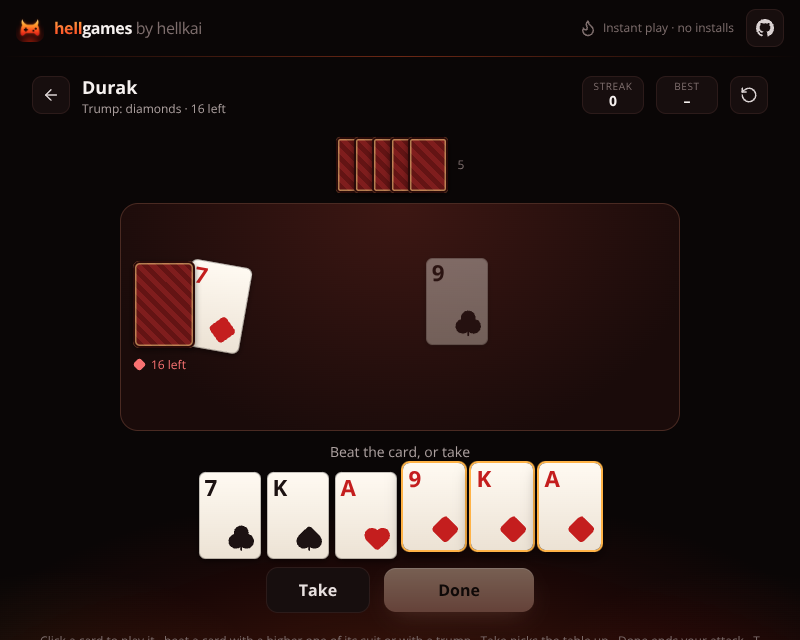
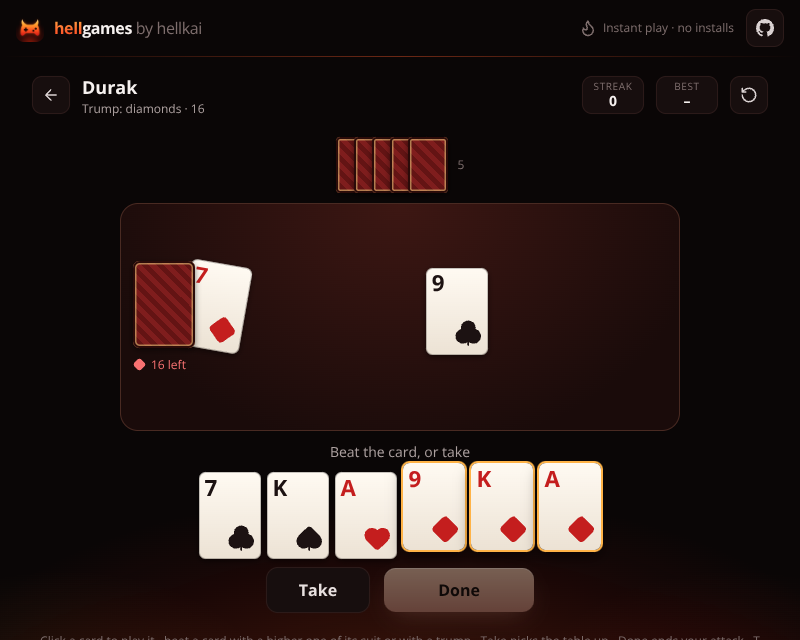
Short status lines, bigger targets under a finger, steadier tests
- The line under a game's name fits a narrow phone in every new game.
- Hold the Angle: enemies are a third bigger on touch screens.
- Durak: only a card that was just played slides in; the others stay still.
- Stroop Test and Odd One Out show the time left from the first answer on.
- Browser tests wait for what they need instead of for a fixed time.

Changed region(s): [[0.5312, 0.4062, 0.625, 0.5625], [0.25, 0.1562, 0.2812, 0.1875]]

diff --git a/js/games/durak.js b/js/games/durak.js
@@ -118,6 +118,7 @@ export default {
     const $ = (id) => stage.querySelector('#' + id);
     const handEl = $('dk-hand'), msg = $('dk-msg'), takeBtn = $('dk-take'), doneBtn = $('dk-done');
     let g = createGame(), timer = null, alive = true, flash = ''; // flash: a word about what has just happened, shown for a moment
+    let laid = new Set(); // the cards that are on the table already
     const streak = () => Number(saved.get('streak')) || 0;
     const sorted = (hand) => hand.slice().sort((a, b) => worth(a, g.trump) - worth(b, g.trump) || a.suit.localeCompare(b.suit));
     const later = (fn, ms) => { timer = setTimeout(() => { if (alive) fn(); }, ms); };
@@ -136,14 +137,17 @@ export default {
       const red = g.trump === 'hearts' || g.trump === 'diamonds' ? ' red' : '';
       $('dk-deck').innerHTML = (g.deck.length ? cardHTML(g.deck[0], 'dk-trump') + (g.deck.length > 1 ? cardHTML(null, 'dk-stock') : '') : `<div class="dk-suit${red}"><i data-lucide="${SUIT_ICON[g.trump]}"></i></div>`)
         + `<span class="dk-count${red}"><i data-lucide="${SUIT_ICON[g.trump]}"></i>${g.deck.length ? `${g.deck.length} left` : 'trump'}</span>`;
-      $('dk-table').innerHTML = g.table.map((pair) => `<div class="dk-pair">${cardHTML(pair.attack)}${pair.defence ? cardHTML(pair.defence, 'dk-over') : ''}</div>`).join('');
+      // only a card that has just been played slides in; the ones that lay there already stay still
+      const fresh = (c) => (laid.has(cardName(c)) ? '' : ' new');
+      $('dk-table').innerHTML = g.table.map((pair) => `<div class="dk-pair">${cardHTML(pair.attack, fresh(pair.attack))}${pair.defence ? cardHTML(pair.defence, 'dk-over' + fresh(pair.defence)) : ''}</div>`).join('');
+      laid = new Set(g.table.flatMap((pair) => [pair.attack, pair.defence]).filter(Boolean).map(cardName));
       // the hand: so many cards to a row that each one can still be told and touched
       const cards = sorted(g.hands[0]), perRow = Math.ceil(cards.length / Math.ceil(cards.length / 12)) || 1, rows = [];
       for (let i = 0; i < cards.length; i += perRow) rows.push(cards.slice(i, i + perRow));
       handEl.innerHTML = rows.map((row) => `<div class="dk-row" style="--n:${row.length}">${row.map((c) => cardHTML(c, playable.has(cardName(c)) ? 'can' : '', 'button')).join('')}</div>`).join('');
       takeBtn.disabled = !mine.some((o) => o.type === 'take'); doneBtn.disabled = !mine.some((o) => o.type === 'done');
       msg.textContent = flash || telling();
-      api.status(`Trump: ${g.trump} · ${g.deck.length} left`);
+      api.status(`Trump: ${g.trump} · ${g.deck.length}`);
       drawIcons();
     }
     function finish() {

diff --git a/js/games/peek.js b/js/games/peek.js
@@ -25,8 +25,9 @@ const BEHIND_WALL = 3; // the first so many spots are in the room behind the doo
 // The body under a head: a box, in the same measure.
 export const bodyOf = (enemy) => ({ x: enemy.x - enemy.r * 1.5, y: enemy.y + enemy.r * 0.9, w: enemy.r * 3, h: enemy.r * 3.4 });
 
-export function createDuels(level = 'normal', rnd = Math.random) {
-  const { show, head } = LEVELS[level];
+// `grow` makes the enemies bigger: a finger on a phone is blunter than a mouse.
+export function createDuels(level = 'normal', rnd = Math.random, grow = 1) {
+  const { show } = LEVELS[level], head = LEVELS[level].head * grow;
   const d = { duel: 0, phase: 'wait', wait: 0.8 + rnd() * 1.2, enemy: null, times: [], heads: 0, lost: 0, shots: 0, hits: 0, over: false, events: [] };
   let last = -1;
   function next(ms, how) {
@@ -89,12 +90,13 @@ export default {
     const levelBtns = [...stage.querySelectorAll('#pk-level button')];
     const font = getComputedStyle(document.body).fontFamily;
     let W = 1, H = 1, level, duels, state = 'ready', aim = [0.5, 0.3], pops = [], flashAt = -9, hurtAt = -9, endTimer = null;
+    const grow = window.matchMedia && window.matchMedia('(pointer: coarse)').matches ? 1.3 : 1;
 
     function reset() {
       clearTimeout(endTimer); api.hideOverlay();
       level = LEVELS[api.variant()] ? api.variant() : 'normal';
       levelBtns.forEach((b) => b.classList.toggle('on', b.dataset.l === level));
-      duels = createDuels(level); state = 'ready'; pops = [];
+      duels = createDuels(level, Math.random, grow); state = 'ready'; pops = [];
       api.score('–'); api.status(`${DUELS} duels`);
     }
     function enemy(e) {

diff --git a/js/games/untangle.js b/js/games/untangle.js
@@ -71,7 +71,7 @@ export default {
       puzzle = makePuzzle(LEVELS[level]);
       bad = tangled(puzzle.points, puzzle.lines); held = -1; moves = 0; t0 = 0; done = false;
       levelBtns.forEach((b) => b.classList.toggle('on', b.dataset.l === level));
-      api.score(0); api.status(`${puzzle.points.length} knots · ${bad.length} lines in a tangle`);
+      api.score(0); api.status(`${puzzle.points.length} knots · ${bad.length} tangled`);
     }
     function draw() {
       const X = (p) => p[0] * W, Y = (p) => p[1] * H, unit = Math.min(W, H);
@@ -91,7 +91,7 @@ export default {
     }
     function check() {
       bad = tangled(puzzle.points, puzzle.lines);
-      api.status(bad.length ? `${bad.length} line${bad.length === 1 ? '' : 's'} in a tangle` : 'Not a line crosses');
+      api.status(bad.length ? `${bad.length} line${bad.length === 1 ? '' : 's'} tangled` : 'Not a line crosses');
     }
     // ---- input: a knot is taken by its nearest point within reach, a wide reach under a finger
     const at = (e) => { const r = cv.getBoundingClientRect(); return [(e.clientX - r.left) / r.width, (e.clientY - r.top) / r.height, r]; };

diff --git a/js/games/lasthit.js b/js/games/lasthit.js
@@ -155,8 +155,8 @@ export default {
       if (lane.denies) { ctx.textAlign = 'left'; ctx.fillStyle = '#a3e635'; ctx.font = `600 ${Math.max(11, unit * 0.032)}px ${font}`; ctx.fillText(`${lane.denies} denied`, unit * 0.03, unit * 0.045); ctx.textAlign = 'center'; }
       if (state === 'ready') {
         ctx.fillStyle = 'rgba(10,6,6,.55)'; ctx.fillRect(0, 0, W, H);
-        ctx.fillStyle = '#f6f1ef'; ctx.font = `700 ${Math.max(15, unit * 0.055)}px ${font}`; ctx.fillText('Click or tap to start', W / 2, H * 0.44);
-        ctx.fillStyle = '#aca09f'; ctx.font = `500 ${Math.max(11, unit * 0.032)}px ${font}`; ctx.fillText('Hit a creep when its bar turns yellow', W / 2, H * 0.44 + Math.max(20, unit * 0.07));
+        ctx.fillStyle = '#f6f1ef'; ctx.font = `700 ${Math.max(15, unit * 0.055)}px ${font}`; ctx.fillText('Click or tap to start', W / 2, H * 0.7);
+        ctx.fillStyle = '#aca09f'; ctx.font = `500 ${Math.max(11, unit * 0.032)}px ${font}`; ctx.fillText('Hit a creep when its bar turns yellow', W / 2, H * 0.7 + Math.max(20, unit * 0.07));
       }
     }
     function frame(dt) {

diff --git a/styles.css b/styles.css
@@ -675,7 +675,7 @@ a.btn-icon:hover { color: var(--accent2); border-color: color-mix(in srgb, var(-
 .dk-table { flex:1; display:flex; flex-wrap:wrap; justify-content:center; gap:10px 14px; min-width:0; }
 .dk-pair { position:relative; width:calc(var(--cw) * 1.28); height:calc(var(--cw) * 1.4 + 12px); }
 .dk-pair .dk-over { position:absolute; left:28%; top:12px; transform:rotate(7deg); }
-.dk-pair .pc { animation:bj-in .2s ease-out; }
+.dk-pair .pc.new { animation:bj-in .2s ease-out; }
 .dk-hand { width:100%; display:flex; flex-direction:column; gap:6px; min-height:calc(var(--cw) * 1.4 + 10px); padding-top:10px; }
 .dk-hand .pc { cursor:default; transition:transform .12s; }
 .dk-hand .pc.can { cursor:pointer; transform:translateY(-9px); box-shadow:0 0 0 2px var(--accent2), 0 6px 14px rgba(0,0,0,.55); }

diff --git a/js/games/odd.js b/js/games/odd.js
@@ -56,7 +56,7 @@ export default {
       running = false; clearInterval(ticker);
       kindBtns.forEach((b) => b.classList.toggle('on', b.dataset.k === kind));
       level = 0; slips = 0; left = SECONDS; next();
-      bar.style.width = '100%'; api.score(0); api.status('The clock starts with your first tile');
+      bar.style.width = '100%'; api.score(0); api.status(`${SECONDS} seconds`);
     }
     function begin() { running = true; last = performance.now(); ticker = setInterval(tick, 100); tick(); }
     function end() {

diff --git a/js/games/pipes.js b/js/games/pipes.js
@@ -88,7 +88,7 @@ export default {
       grid.innerHTML = Array.from(board.tiles, (tile, i) => `<button class="pp-tile${i === board.well ? ' well' : ''}" data-i="${i}" aria-label="Piece of pipe">${picture(tile, i === board.well)}</button>`).join('');
       cells = [...grid.children];
       light();
-      api.score(0); api.status(`${board.n} × ${board.n} · turn the pipes`);
+      api.score(0); api.status(`${board.n} × ${board.n} pieces`);
     }
     function rotate(i, back) {
       if (done) return;

diff --git a/js/games/maze.js b/js/games/maze.js
@@ -76,7 +76,7 @@ export default {
       at = maze.start; pos = xy(at); route = []; been = new Uint8Array(maze.open.length); been[at] = 1;
       moves = 0; t0 = 0; done = false; queued = null;
       sizeBtns.forEach((b) => b.classList.toggle('on', b.dataset.s === size));
-      api.score(0); api.status(`${maze.cols} × ${maze.rows} · find the portal`);
+      api.score(0); api.status(`${maze.cols} × ${maze.rows} cells`);
     }
     function go(dir) {
       if (done) return;

diff --git a/js/games/stroop.js b/js/games/stroop.js
@@ -49,7 +49,7 @@ export default {
       running = false; clearInterval(ticker);
       score = right = wrong = 0; api.score(0); bar.style.width = '100%';
       now = { word: 1, ink: 0 }; showCard();
-      api.status('The clock starts with your first answer');
+      api.status(`${SECONDS} seconds`);
     }
     function tick() {
       const left = Math.max(0, SECONDS * 1000 - (performance.now() - t0));
